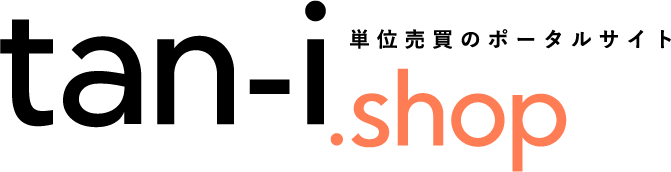
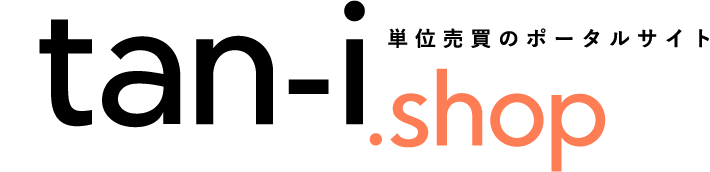
added share buttons and modified positions

Changed region(s): [[0.0, 0.0872, 0.9538, 1.0], [0.4471, 0.0, 0.5365, 0.1453], [0.9538, 0.1744, 1.0, 0.2907]]

diff --git a/index.html b/index.html
@@ -5,9 +5,14 @@
 		<script type="text/javascript" src="script.js"></script>
 	</head>
 	<body>
+<script type="text/javascript" src="https://b.st-hatena.com/js/bookmark_button.js" charset="utf-8" async="async"></script>
 		<div id="container">
-			<div id="bigfonts"><img src="tan-i.shop.png" alt="単位売買のポータルサイト tan-i.shop"><br>
-			そんなものはない</div>
+			<div id="bigfonts"><img src="tan-i.shop.png" alt="単位売買のポータルサイト tan-i.shop"><br><br>これからは、単位もお金で買う時代。</div>
+		</div>
+		<div id="who_is_kyp">
+そんなものはない　
+<a href="http://b.hatena.ne.jp/entry/tan-i.shop/" class="hatena-bookmark-button" data-hatena-bookmark-title="単位売買のポータルサイト tan-i.shop" data-hatena-bookmark-layout="simple-balloon" title="このエントリーをはてなブックマークに追加"><img src="https://b.st-hatena.com/images/entry-button/button-only@2x.png" alt="このエントリーをはてなブックマークに追加" width="20" height="20" /></a>
+<a href="https://twitter.com/share" class="twitter-share-button" data-url="http://tan-i.shop/" data-text="単位売買のポータルサイト" data-via="_kypu">Tweet</a> <script>!function(d,s,id){var js,fjs=d.getElementsByTagName(s)[0],p=/^http:/.test(d.location)?'http':'https';if(!d.getElementById(id)){js=d.createElement(s);js.id=id;js.src=p+'://platform.twitter.com/widgets.js';fjs.parentNode.insertBefore(js,fjs);}}(document, 'script', 'twitter-wjs');</script>
 		</div>
 	</body>
 </html>
